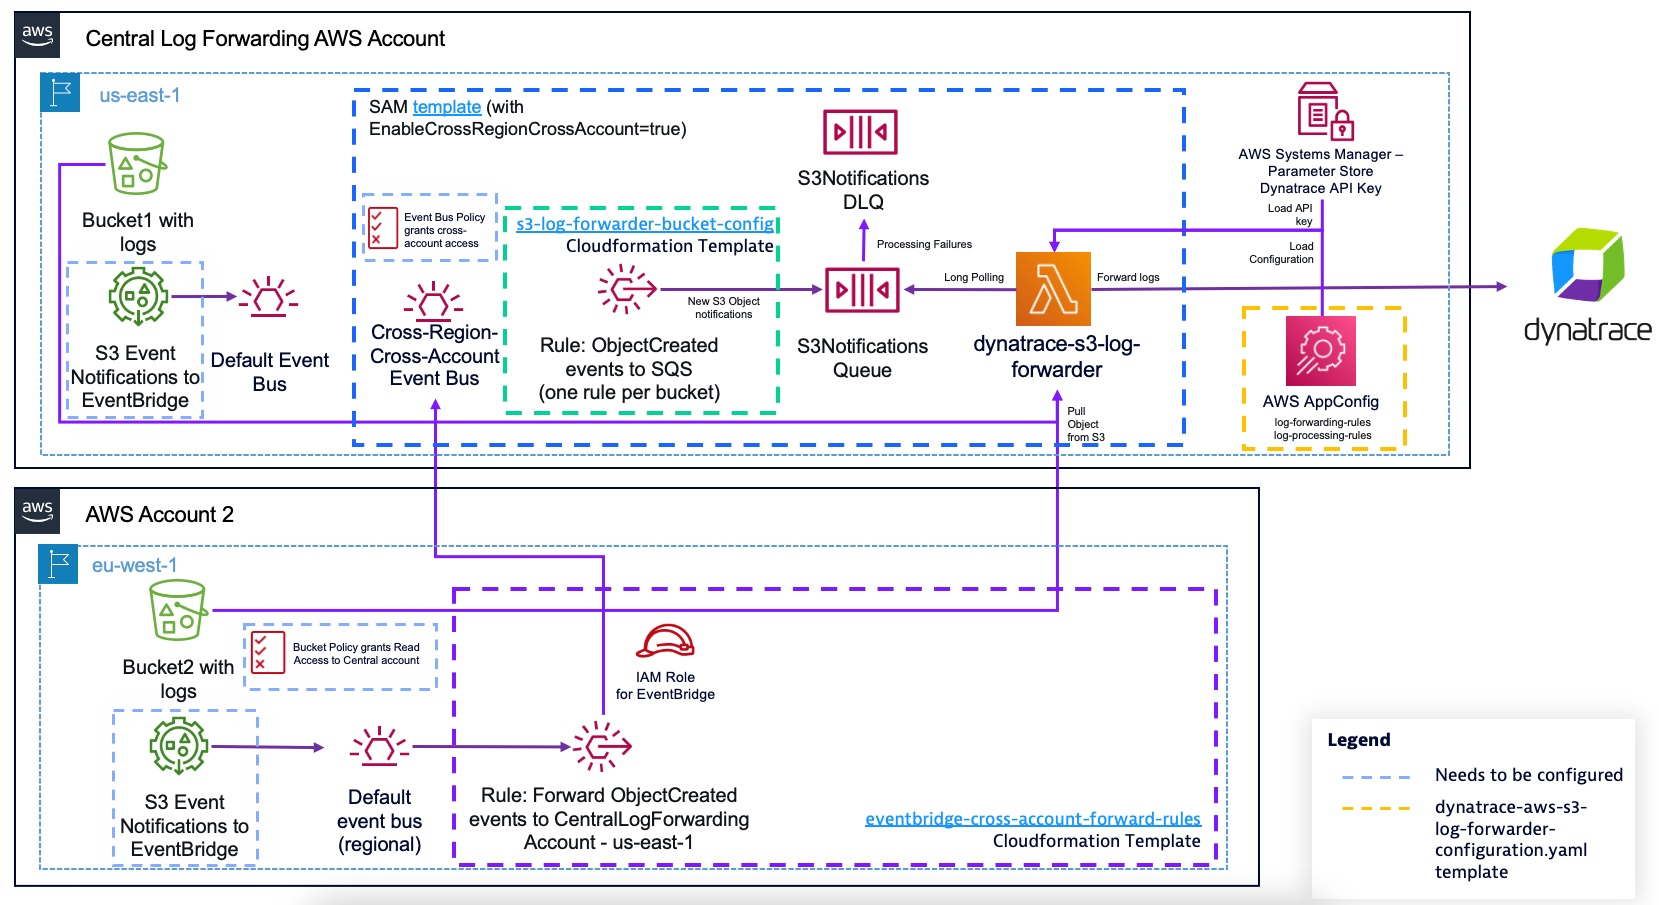
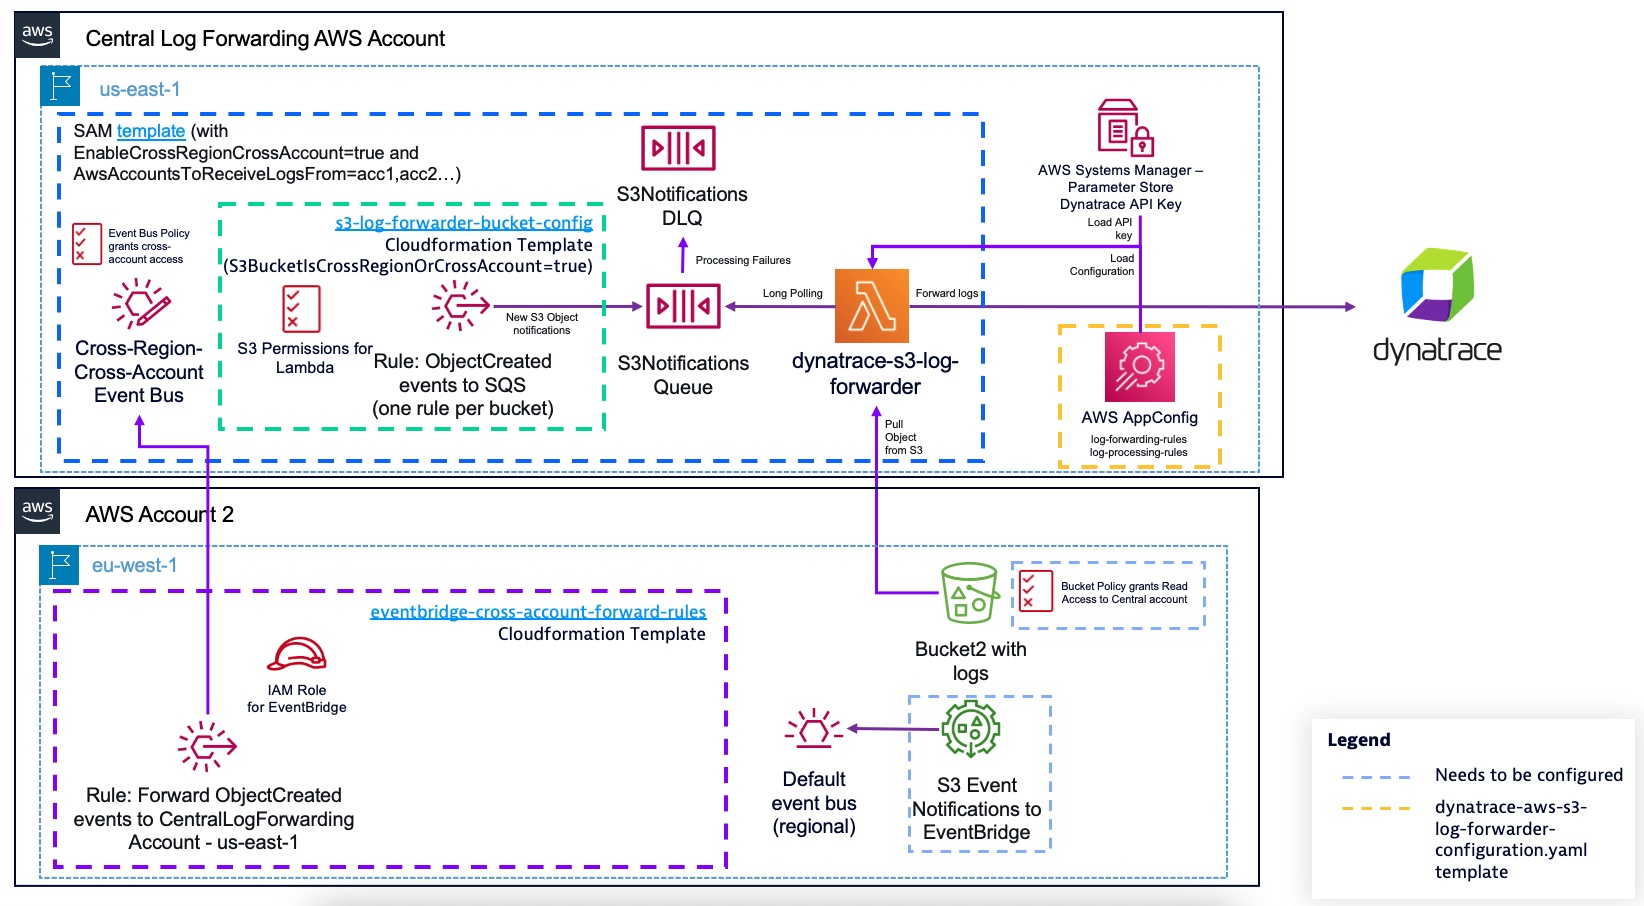
manage eventbridge policy via SAM

diff --git a/tests/unit/log/processing/rules/test_attribute_extraction.py b/tests/unit/log/processing/rules/test_attribute_extraction.py
@@ -1,3 +1,17 @@
+# Copyright 2022 Dynatrace LLC
+
+# Licensed under the Apache License, Version 2.0 (the "License");
+# you may not use this file except in compliance with the License.
+# You may obtain a copy of the License at
+
+#      https://www.apache.org/licenses/LICENSE-2.0
+
+#  Unless required by applicable law or agreed to in writing, software
+#  distributed under the License is distributed on an "AS IS" BASIS,
+#  WITHOUT WARRANTIES OR CONDITIONS OF ANY KIND, either express or implied.
+#  See the License for the specific language governing permissions and
+#  limitations under the License.
+
 import unittest
 import os
 from log.processing import log_processing_rules

diff --git a/tests/unit/log/processing/rules/test_attribute_injection.py b/tests/unit/log/processing/rules/test_attribute_injection.py
@@ -1,3 +1,17 @@
+# Copyright 2022 Dynatrace LLC
+
+# Licensed under the Apache License, Version 2.0 (the "License");
+# you may not use this file except in compliance with the License.
+# You may obtain a copy of the License at
+
+#      https://www.apache.org/licenses/LICENSE-2.0
+
+#  Unless required by applicable law or agreed to in writing, software
+#  distributed under the License is distributed on an "AS IS" BASIS,
+#  WITHOUT WARRANTIES OR CONDITIONS OF ANY KIND, either express or implied.
+#  See the License for the specific language governing permissions and
+#  limitations under the License.
+
 import unittest
 import os
 from log.processing import log_processing_rules

diff --git a/docs/log_forwarding.md b/docs/log_forwarding.md
@@ -1,13 +1,13 @@
 # Log Forwarding rules
 
-The `dynatrace-aws-s3-log-forwarder` uses log forwarding rules to determine how to process log files. Log forwarding rules are stored in [AWS AppConfig](https://docs.aws.amazon.com/appconfig/latest/userguide/what-is-appconfig.html), a configuration manager system, from where the log processing AWS Lambda function pulls the configuration. This allows you to update your configuration at any point in time without requiring you to re-deploy the AWS Lambda function. Once a new configuration version is available, the log processing function will load it within ~1 minute.
+The `dynatrace-aws-s3-log-forwarder` uses log forwarding rules to determine how to process log files. Log forwarding rules are stored in [AWS AppConfig](https://docs.aws.amazon.com/appconfig/latest/userguide/what-is-appconfig.html), a configuration management service, from where the log processing AWS Lambda function pulls the configuration. This allows you to update your configuration at any point in time without requiring you to re-deploy the AWS Lambda function. Once a new configuration version is available, the log processing function will load it within ~1 minute.
 
-The `dynatrace-aws-s3-log-forwarder-configuration.yaml` CloudFormation template, once deployed, defines an initial catch-all default rule. If you go to the AWS AppConfig [console](https://console.aws.amazon.com/systems-manager/appconfig/) you will find an `Application` named `<your_stack_name>-app-config` with two configuration profiles within it:
+The `dynatrace-aws-s3-log-forwarder-configuration.yaml` CloudFormation template, once deployed, defines an initial catch-all default log forwarding rule. If you go to the AWS AppConfig [console](https://console.aws.amazon.com/systems-manager/appconfig/) you will find an `Application` named `<your_stack_name>-app-config` with two configuration profiles within it:
 
 * log-forwarding-rules: stores log forwarding rules.
 * log-processing-rules: stores custom log processing rules that you can optionally define. For more information, check the [log_processing.md](log_processing.md) documentation.
 
-While the initial configuration helps you get started, you may want to configure more explicit and complex log processing rules.
+While the initial configuration helps you get started, you may want to configure more explicit and complex log processing rules. The section below outlines how to configure custom log forwarding rules.
 
 ## Configuring log forwarding rules
 
@@ -55,7 +55,7 @@ Log forwarding rules allow you to add custom annotations to your logs (e.g team:
 
 * log.source.s3_bucket_name: name of the S3 bucket the log was forwarded from
 * log.source.s3_key_name: key name of the S3 object that the log entry belongs to
-* log.source.forwarder: the ARN of the AWS Lambda function that forwarded the log entry (this helps if you have multiple log forwarding instances running)
+* cloud.log_forwarder: the ARN of the AWS Lambda function that forwarded the log entry (this helps if you have multiple log forwarding instances running)
 
 The `dynatrace-aws-s3-log-forwarder` automatically annotates logs and extracts relevant attributes for supported AWS services with fields like `aws.account.id`, `aws.region`... The following AWS-vended logs are supported:
 
@@ -99,13 +99,13 @@ The `dynatrace-aws-s3-log-forwarder` solution is able to handle large log files 
 
 The SAM template deploys the forwarder with the following default parameters that you can modify to suit your needs:
 
-* LambdaFunctionMemorySize: 256 MB  --> At 1,769 MB, a function has the equivalent of one vCPU (one vCPU-second of credits per second).
-* MaximumLambdaConcurrency: 30  --> Maximum number of Lambda functions executing concurrently
-* LambdaSQSMessageBatchSize: 4  --> Number of log messages processed per Lambda execution (for smaller files you can increase it, for very large files you can decrease it)
-* LambdaMaximumExecutionTime: 300  --> Maximum execution time in seconds of the AWS Lambda function, you can increase this up to 900
-* SQSVisibilityTimeout: 420  --> SQS message invisibility time once received. This value should be larger than the LambdaMaximumExecutionTime to avoid more than one Lambda function processing the same log file (note however that SQS provides at-least-once delivery)
-* SQSLongPollingMaxSeconds: 20  --> Time to wait while polling the SQS queue for messages
-* MaximumSQSMessageRetries: 2  --> Maximum number of times the forwarder retries processing a log file if it fails before sending the S3 Object created notification to the DLQ
+* `LambdaFunctionMemorySize`: 256 MB  --> At 1,769 MB, a function has the equivalent of one vCPU (one vCPU-second of credits per second).
+* `MaximumLambdaConcurrency`: 30  --> Maximum number of Lambda functions executing concurrently
+* `LambdaSQSMessageBatchSize`: 4  --> Number of log messages processed per Lambda execution (for smaller files you can increase it, for very large files you can decrease it)
+* `LambdaMaximumExecutionTime`: 300  --> Maximum execution time in seconds of the AWS Lambda function, you can increase this up to 900
+* `SQSVisibilityTimeout`: 420  --> SQS message invisibility time once received. This value should be larger than the LambdaMaximumExecutionTime to avoid more than one Lambda function processing the same log file (note however that SQS provides at-least-once delivery)
+* `SQSLongPollingMaxSeconds`: 20  --> Time to wait while polling the SQS queue for messages
+* `MaximumSQSMessageRetries`: 2  --> Maximum number of times the forwarder retries processing a log file if it fails before sending the S3 Object created notification to the DLQ
 
 ## Forward logs from S3 buckets on different AWS regions
 
@@ -125,51 +125,51 @@ For each S3 bucket located in a different AWS region than where the log forwarde
 
 1. Deploy the `eventbridge-cross-region-forward-rules.yaml` CloudFormation template on the region where your S3 bucket is. This template will deploy an Amazon EventBridge rule to forward S3 Object Created notifications for the bucket and optional prefixes defined, as well as a required IAM role for EventBridge to forward the notifications to the destination region.
 
-  To deploy the template replace the placeholder values:
+    To deploy the template replace the placeholder values:
 
-  ```bash
-  export STACK_NAME=your_log_forwarder_stack_name
-  export BUCKET_NAME=your_bucket_name_here
-  export REGION=region_of_your_bucket
-  ```
+    ```bash
+    export STACK_NAME=your_log_forwarder_stack_name
+    export BUCKET_NAME=your_bucket_name_here
+    export REGION=region_of_your_bucket
+    ```
 
-  Then, execute the following commands:
+    Then, execute the following commands:
 
-  ```bash
-  export EVENT_BUS_ARN=$(aws cloudformation describe-stacks \
-                                                --stack-name $STACK_NAME \
-                                                --query 'Stacks[].Outputs[?OutputKey==`CrossRegionCrossAccountEventBus`].OutputValue' \
-                                                --output text)
-  if [ ! -z $EVENT_BUS_ARN ]
-  then
-    aws cloudformation deploy \
-      --template-file eventbridge-cross-region-forward-rules.yaml \
-      --stack-name dynatrace-aws-s3-log-forwarder-cross-region-notifications-$BUCKET_NAME \
-      --parameter-overrides CrossRegionCrossAccountEventBusArn=$EVENT_BUS_ARN \
-          LogsBucketName=$BUCKET_NAME \
-      --capabilities CAPABILITY_IAM \
-      --region $REGION
-  else
-    echo "ERROR, Event bus ARN not found in CloudFromation stack: $STACK_NAME. Confirm parameter CrossRegionCrossAccountEventBus is set to true"
-  fi
-  ```
+    ```bash
+    export EVENT_BUS_ARN=$(aws cloudformation describe-stacks \
+                                                  --stack-name $STACK_NAME \
+                                                  --query 'Stacks[].Outputs[?OutputKey==`CrossRegionCrossAccountEventBus`].OutputValue' \
+                                                  --output text)
+    if [ ! -z $EVENT_BUS_ARN ]
+    then
+      aws cloudformation deploy \
+        --template-file eventbridge-cross-region-forward-rules.yaml \
+        --stack-name dynatrace-aws-s3-log-forwarder-cross-region-notifications-$BUCKET_NAME \
+        --parameter-overrides CrossRegionCrossAccountEventBusArn=$EVENT_BUS_ARN \
+            LogsBucketName=$BUCKET_NAME \
+        --capabilities CAPABILITY_IAM \
+        --region $REGION
+    else
+      echo "ERROR, Event bus ARN not found in CloudFromation stack: $STACK_NAME. Confirm parameter CrossRegionCrossAccountEventBus is set to true"
+    fi
+    ```
 
-  **NOTE:** You can limit log forwarding for specific S3 bucket prefixes (e.g. dev/) adding up to 10 LogBucketPrefix# optional parameters to the above command.
+    **NOTE:** You can limit log forwarding for specific S3 bucket prefixes (e.g. dev/) adding up to 10 LogBucketPrefix# optional parameters to the above command.
 
 1. Once the above stack is deployed, go to your S3 bucket(s) and enable notifications via EventBridge following instructions [here](https://docs.aws.amazon.com/AmazonS3/latest/userguide/enable-event-notifications-eventbridge.html).
 
 1. Last, deploy the `s3-log-forwarder-bucket-config-template.yaml` CloudFormation template on the AWS region where the `dynatrace-aws-s3-log-forwarder` is deployed. This template will deploy the required regional Amazon EventBridge rules to send the cross-region forwarded notifications to the S3 forwarder Amazon SQS queue, as well as grant IAM permissions to the AWS Lambda function to access your S3 bucket. Make sure the `S3BucketIsCrossRegionOrCrossAccount` parameter is set to "true".
 
-      ```bash
-      aws cloudformation deploy \
-        --template-file s3-log-forwarder-bucket-config-template.yaml \
-        --stack-name dynatrace-aws-s3-log-forwarder-s3-bucket-configuration-$BUCKET_NAME \
-        --parameter-overrides DynatraceAwsS3LogForwarderStackName=$STACK_NAME \
-            LogsBucketName=$BUCKET_NAME \
-            S3BucketIsCrossRegionOrCrossAccount=true \
-        --capabilities CAPABILITY_IAM \
-        --region <region-where-your-s3-log-forwarder-instance-is-deployed>
-      ```
+    ```bash
+    aws cloudformation deploy \
+      --template-file s3-log-forwarder-bucket-config-template.yaml \
+      --stack-name dynatrace-aws-s3-log-forwarder-s3-bucket-configuration-$BUCKET_NAME \
+      --parameter-overrides DynatraceAwsS3LogForwarderStackName=$STACK_NAME \
+          LogsBucketName=$BUCKET_NAME \
+          S3BucketIsCrossRegionOrCrossAccount=true \
+      --capabilities CAPABILITY_IAM \
+      --region <region-where-your-s3-log-forwarder-instance-is-deployed>
+    ```
 
 1. Define an explicit log-forwarding-rule for this S3 bucket on the log-forwarding-rules AWS AppConfig configuration profile and deploy it. Unless you have a default rule defined, logs from this bucket won't be forwarded until you deploy an explicit rule updating and deploying the `dynatrace-aws-s3-log-forwarder-configuration.yaml` CloudFormation stack.
 
@@ -177,11 +177,13 @@ For each S3 bucket located in a different AWS region than where the log forwarde
 
 ## Forward logs from S3 buckets on different AWS accounts
 
-You can centralize log forwarding for logs in multiple AWS accounts and AWS regions on a single `dynatrace-aws-s3-log-forwarder` deployment to avoid the overhead of deploying and managing multiple log forwarding instances. Before proceeding, make sure you have deployed the `dynatrace-aws-s3-log-forwarder` setting the `EnableCrossRegionCrossAccountForwarding` parameter set to "true", so a dedicated Event Bus is created to receive cross-region notifications. If you didn't set this parameter, you can simply re-deploy the SAM template enabling it.
+You can centralize log forwarding for logs in multiple AWS accounts and AWS regions on a single `dynatrace-aws-s3-log-forwarder` deployment to avoid the overhead of deploying and managing multiple log forwarding instances. Before proceeding, make sure you have deployed the `dynatrace-aws-s3-log-forwarder` setting the `EnableCrossRegionCrossAccountForwarding` parameter set to "true", so a dedicated Event Bus is created to receive cross-region notifications. You also need to grant permissions to the AWS account using the `AwsAccountsToReceiveLogsFrom` parameter, which takes a comma separated list of AWS account ids to grant permission to. To do so, re-deploy the SAM template:
 
 ```bash
-sam deploy --parameter-overrides EnableCrossRegionCrossAccountForwarding=true
+sam deploy --parameter-overrides EnableCrossRegionCrossAccountForwarding=true AwsAccountsToReceiveLogsFrom="aws_account_1,aws_account_2..."
 ```
+
+**IMPORTANT NOTE:** If you had already some AWS accounts configured on the AwsAccountsToReceiveLogsFrom parameter, make sure to add them to the list on the above command, as it overwrites the previous content of the parameter. If you run `sam deploy --guided` you can see the current value and copy-paste from there adding new accounts.
 
 The diagram below showcases what you need to deploy in order to have the `dynatrace-aws-s3-log-forwarder` forwarding logs from an S3 bucket in a different AWS:
 
@@ -217,79 +219,40 @@ For each S3 bucket located in a different AWS account that you want to forward l
     ```bash
     export STACK_NAME=your_log_forwarder_stack_name_here
 
-    aws cloudformation describe-stacks --stack-name $STACK_NAME \ 
-                                                  --query 'Stacks[].Outputs[?OutputKey==`QueueProcessingFunctionIamRole`].OutputValue' \
-                                                  --output text
+    aws cloudformation describe-stacks \
+    --stack-name $STACK_NAME --query 'Stacks[].Outputs[?OutputKey==`QueueProcessingFunctionIamRole`].OutputValue' \
+    --output text
     ```
 
     **IMPORTANT NOTE:** The S3 bucket on the source AWS account must be configured with [ACLs disabled](https://docs.aws.amazon.com/AmazonS3/latest/userguide/object-ownership-existing-bucket.html). If your S3 bucket has ACLs enabled, the above policy only takes effect for objects owned by the bucket owner. As AWS logs are delivered by AWS-owned accounts, who are the owners of the log objects, the permissions granted by the bucket policy don´t apply. Disabling ACLs should meet the wide majority of use cases (it's the default setting for S3 buckets created on the AWS console, and [will become default setting](https://aws.amazon.com/blogs/aws/heads-up-amazon-s3-security-changes-are-coming-in-april-of-2023/) starting on Apr 2023 for new buckets). If you have ACLs enabled on your bucket, read the [AWS documentation](https://docs.aws.amazon.com/AmazonS3/latest/userguide/object-ownership-existing-bucket.html) carefully before disabling them. The `dynatrace-aws-s3-log-forwarder` doesn't support accessing buckets assuming an IAM role on the destination account.
-
-1. On the `{your-log-forwader-stack-name}-cross-region-cross-account-s3-events` Event Bus policy (on the AWS account and region where your log forwarder is deployed), grant permissions to the AWS account where your S3 bucket is to forward S3 Object created notifications. Follow the instructions [here](https://docs.aws.amazon.com/eventbridge/latest/userguide/eb-cross-account.html#eb-receiving-events-from-another-account). Your policy should look like the one below:
-
-    ```json
-    {
-      "Version": "2012-10-17",
-      "Statement": [
-        {
-      
-          "Sid": "allow_account_to_put_events",
-          "Effect": "Allow",
-          "Principal": {
-            "AWS": "<aws_account_id_where_the_s3_bucket_is>"
-          },
-          "Action": "events:PutEvents",
-          "Resource": "arn:aws:events:<aws_region_where_the_forwarder_runs>:<aws_account_id_where_the_forwarder_runs>:event-bus/{your-log-forwader-stack-name}-cross-region-cross-account-s3-events"
-        }
-      ]
-    }
-    ```
-
-    **NOTE:** If you have a large number of AWS accounts, you can permissions to all the AWS accounts in your AWS Organization with the aws:PrincipalOrgID condition:
-
-    ```yaml
-    {
-      "Version": "2012-10-17",
-      "Statement": [
-        {
-          "Sid": "allow_all_accounts_from_organization_to_put_events",
-          "Effect": "Allow",
-          "Principal": "*",
-          "Action": "events:PutEvents",
-          "Resource": "arn:aws:events:<aws_region_where_your_log_forwarder_is>:<aws_account_id_where_your_log_forwarder_is>:event-bus/{your-log-forwader-stack-name}-cross-region-cross-account-s3-events",
-          "Condition": {
-            "StringEquals": {
-              "aws:PrincipalOrgID": "<ORGANIZATION_ID>"
-              }
-          }
-        }  
-      ]
-    }  
-    ````
 
 1. On the AWS account where the S3 bucket is, [enable S3 notifications](https://docs.aws.amazon.com/AmazonS3/latest/userguide/enable-event-notifications-eventbridge.html) to Amazon EventBridge on the bucket.
 
 1. Then create an EventBridge rule that forwards S3 Object Created notifications to the `{your-log-forwader-stack-name}-cross-region-cross-account-s3-events` event bus in the AWS account and region where the log forwarder is deployed.
 
-  Replace the placeholder values below and execute the commands (the below commands assume you have configured [credential profiles](https://docs.aws.amazon.com/cli/latest/userguide/cli-configure-profiles.html) on your AWS CLI configuration for the different AWS accounts):
+    Replace the placeholder values below and execute the commands (the below commands assume you have configured [credential profiles](https://docs.aws.amazon.com/cli/latest/userguide/cli-configure-profiles.html) on your AWS CLI configuration for the different AWS accounts):
 
-  ```bash
-  export STACK_NAME=name_of_your_log_forwarder_stack
-  export BUCKET_NAME=your_bucket_name
-  export EVENT_BUS_ARN=$(aws cloudformation describe-stacks \
-                                        --stack-name $STACK_NAME \
-                                        --query 'Stacks[].Outputs[?OutputKey==`CrossRegionCrossAccountEventBus`].OutputValue' \
-                                        --output text \
-                                        --profile {aws_cli_credentials_profile_of_log_forwarder_aws_account})
+    ```bash
+    export STACK_NAME=name_of_your_log_forwarder_stack
+    export BUCKET_NAME=your_bucket_name
+    ```
 
-  aws cloudformation deploy \
-  --template-file eventbridge-cross-account-forward-rules.yaml \
-  --stack-name dynatrace-aws-s3-log-forwarder-cross-account-notifications-$BUCKET_NAME \
-  --parameter-overrides CrossRegionCrossAccountEventBusArn=$EVENT_BUS_ARN \
-      LogsBucketName=$BUCKET_NAME \
-  --capabilities CAPABILITY_IAM \
-  --region {region_of_your_s3-bucket}
-  --profile {aws_cli_credentials_profile_for_s3_bucket_aws_account}
-  ```
+    ```bash
+    export EVENT_BUS_ARN=$(aws cloudformation describe-stacks \
+                                          --stack-name $STACK_NAME \
+                                          --query 'Stacks[].Outputs[?OutputKey==`CrossRegionCrossAccountEventBus`].OutputValue' \
+                                          --output text \
+                                          --profile {aws_cli_credentials_profile_of_log_forwarder_aws_account})
+
+    aws cloudformation deploy \
+    --template-file eventbridge-cross-account-forward-rules.yaml \
+    --stack-name dynatrace-aws-s3-log-forwarder-cross-account-notifications-$BUCKET_NAME \
+    --parameter-overrides CrossRegionCrossAccountEventBusArn=$EVENT_BUS_ARN \
+        LogsBucketName=$BUCKET_NAME \
+    --capabilities CAPABILITY_IAM \
+    --region {region_of_your_s3-bucket}
+    --profile {aws_cli_credentials_profile_for_s3_bucket_aws_account}
+    ```
 
 1. Now, on the AWS account and region where the `dynatrace-aws-s3-log-forwarder` is running, deploy the `s3-log-forwarder-bucket-config-template.yaml` CloudFormation template to configure the local EventBridge rule to forward notifications to SQS for the log forwarder to pick them up. Make sure the `S3BucketIsCrossRegionOrCrossAccount` parameter is set to true.
 
